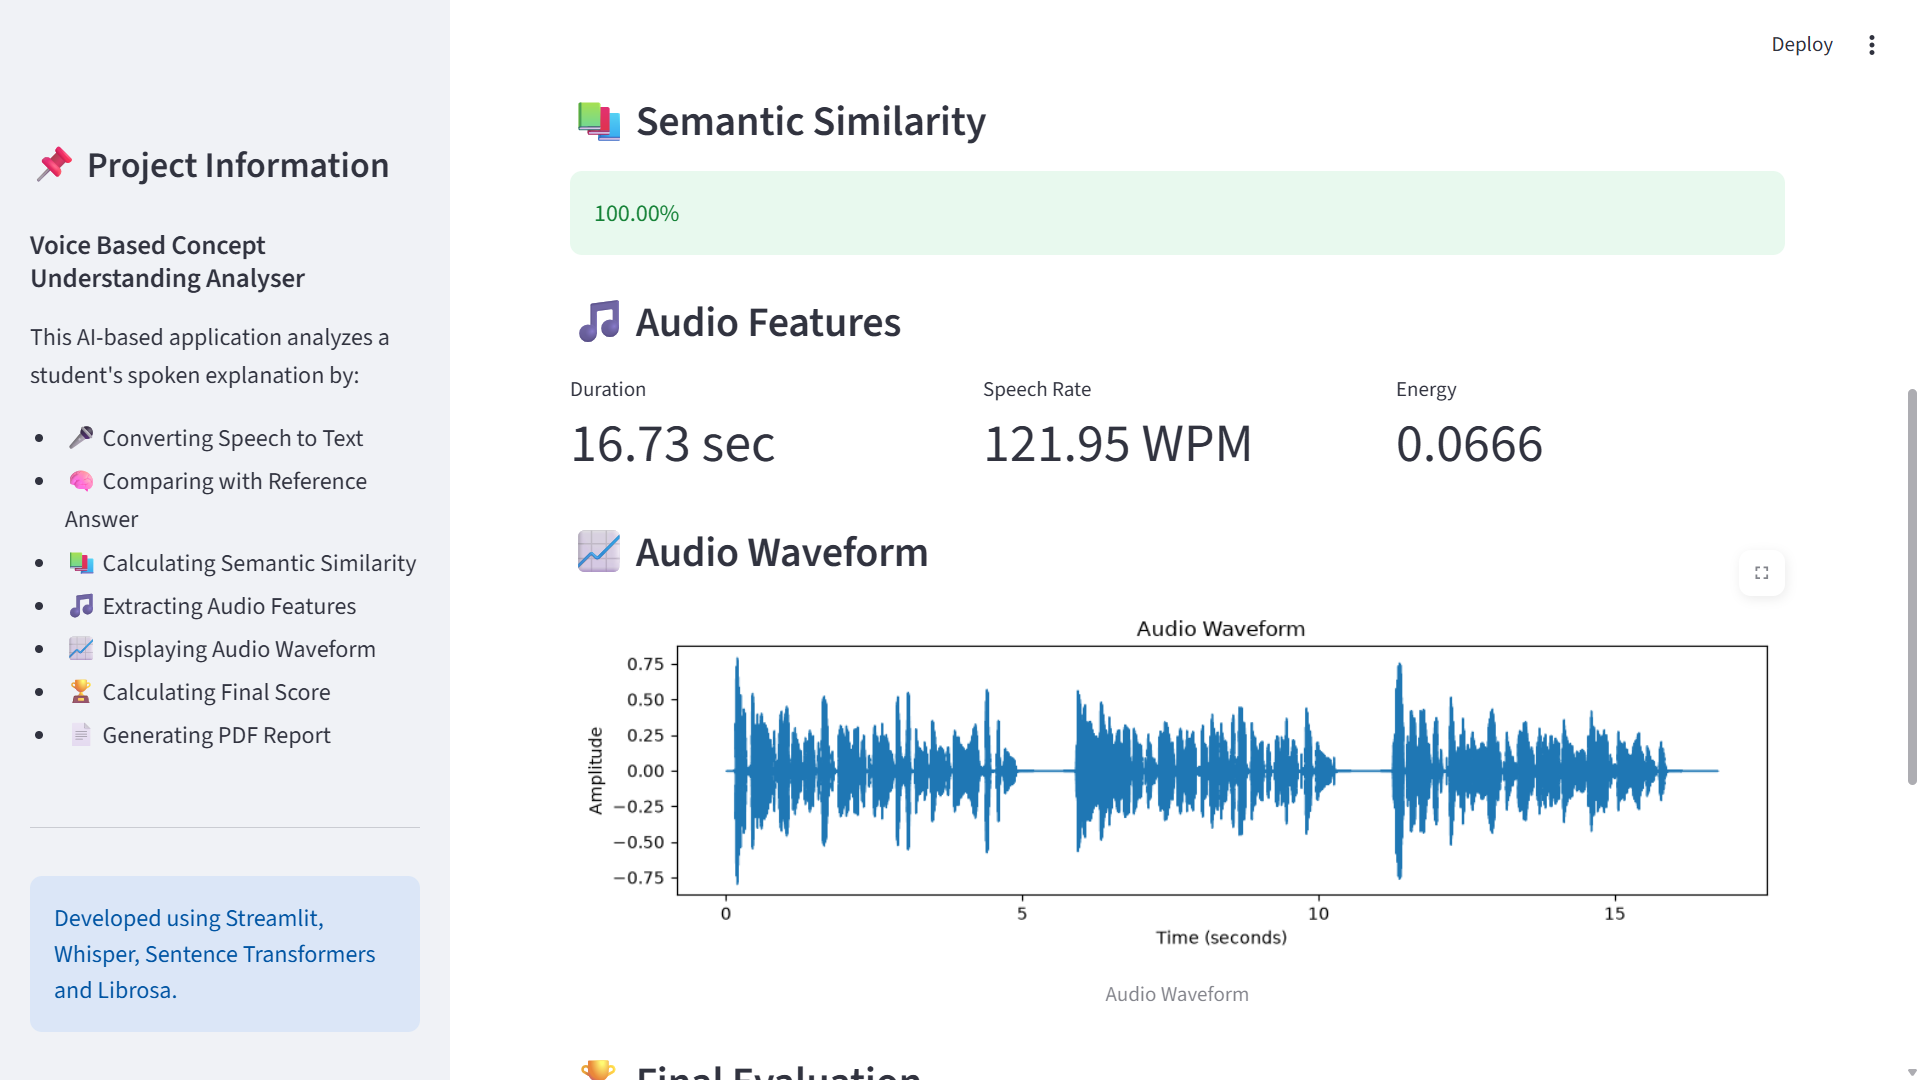
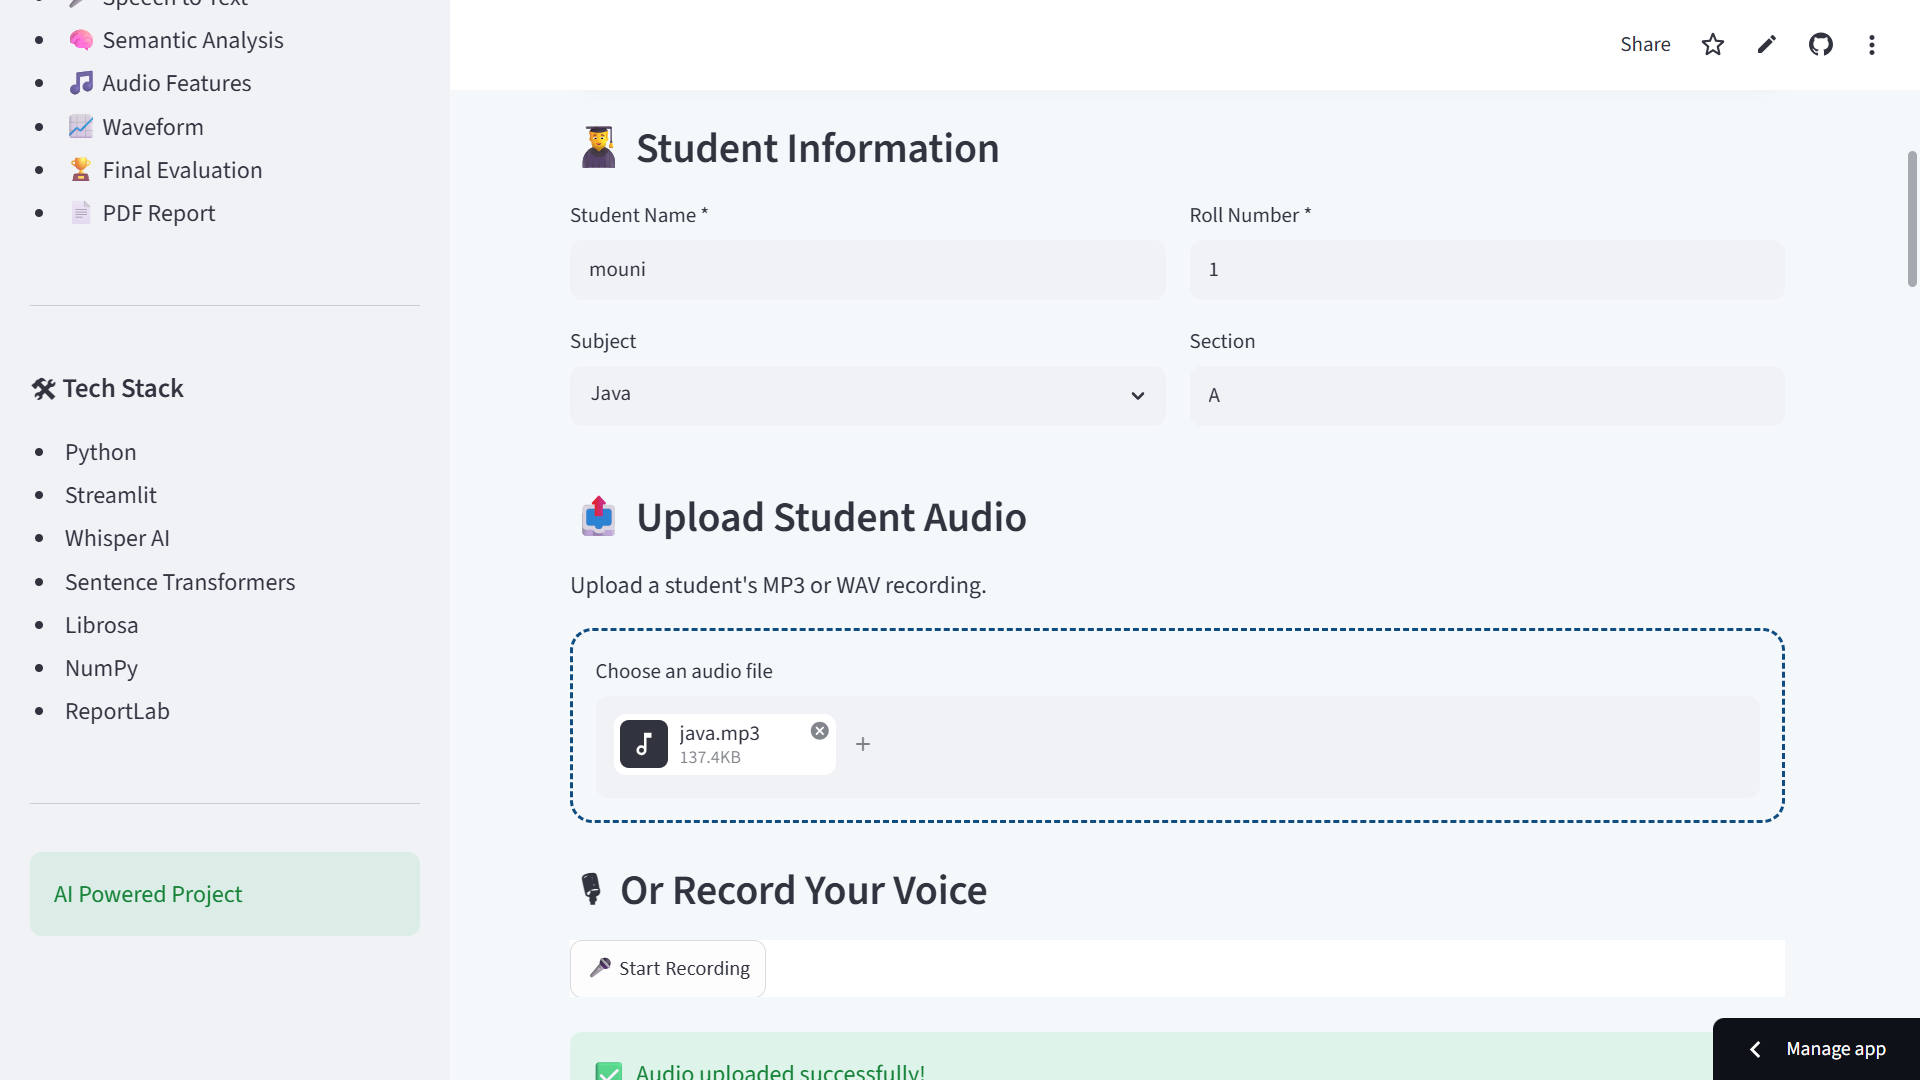
Readme Updation

diff --git a/README.md b/README.md
@@ -1,31 +1,78 @@
 # 🎤 Voice Based Concept Understanding Analyser
 
-🌐 **Live Project**
+An AI-powered web application that evaluates a student's spoken explanation of a concept using **Speech-to-Text**, **Natural Language Processing (NLP)**, and **Audio Feature Analysis**.
 
-[https://voice-based-concept-understanding-analyser-ezu898jwphrtf5goswd.streamlit.app/](url)
+---
+
+## 🚀 Project Status
+
+✅ Completed
+
+🌐 Successfully Deployed on Streamlit Cloud
+
+---
+
+## 🌐 Live Demo
+
+🔗 **Streamlit App:**  
+https://voice-based-concept-understanding-analyser-5h8yakbhdlpv4tu2hb5.streamlit.app/
+
+---
+
+## 💻 GitHub Repository
+
+🔗 **GitHub:**  
+https://github.com/Swethamadda0710/Voice-Based-Concept-Understanding-Analyser
+
+---
 
 ## 📖 Project Description
 
-The **Voice Based Concept Understanding Analyser** is an AI-powered application that evaluates a student's spoken explanation of a concept. It converts speech into text, compares it with a reference answer using semantic similarity, analyzes audio features, calculates an understanding score, and generates a PDF report.
+The **Voice Based Concept Understanding Analyser** helps evaluate a student's conceptual understanding by analyzing their spoken explanation.
+
+The application performs the following tasks:
+
+- Converts speech into text using **OpenAI Whisper**
+- Compares the student's answer with the teacher's reference answer using **Sentence Transformers**
+- Extracts important audio features
+- Calculates an overall understanding score
+- Generates a professional PDF report
+- Displays evaluation history and dashboard analytics
 
 ---
 
-## ✨ Features
+## 🎯 Objectives
 
-- 🎤 Speech-to-Text using OpenAI Whisper
-- 🧠 Semantic Similarity using Sentence Transformers
+- Evaluate students' spoken explanations using AI.
+- Convert speech into text accurately.
+- Compare student answers with a reference answer.
+- Calculate semantic similarity.
+- Extract speech-related audio features.
+- Generate an AI-based evaluation score.
+- Produce downloadable PDF reports.
+- Maintain evaluation history and analytics.
+
+---
+
+# ✨ Features
+
+- 🎤 Speech-to-Text (OpenAI Whisper)
+- 🧠 Semantic Similarity Analysis
 - 🎵 Audio Feature Extraction
   - Duration
   - Speech Rate
-  - Audio Energy
+  - Energy
 - 📈 Audio Waveform Visualization
-- 🏆 Automatic Understanding Score
+- 🏆 AI-based Evaluation Score
 - 📄 PDF Report Generation
-- 🌐 Interactive Streamlit Web Interface
+- 📊 Evaluation History
+- 📈 Dashboard Analytics
+- 🎙 Voice Recording Support
+- 🌐 Interactive Streamlit Web Application
 
 ---
 
-## 🛠 Technologies Used
+# 🛠 Technologies Used
 
 - Python
 - Streamlit
@@ -34,18 +81,21 @@ The **Voice Based Concept Understanding Analyser** is an AI-powered application 
 - PyTorch
 - Librosa
 - NumPy
+- Pandas
+- Plotly
 - Matplotlib
 - ReportLab
 
 ---
 
-## 📂 Project Structure
+# 📂 Project Structure
 
-```
+```text
 Voice-Based-Concept-Understanding-Analyser/
 │
 ├── app.py
 ├── requirements.txt
+├── packages.txt
 ├── README.md
 ├── .gitignore
 │
@@ -54,35 +104,35 @@ Voice-Based-Concept-Understanding-Analyser/
 │   ├── semantic_analysis.py
 │   ├── audio_features.py
 │   ├── scoring.py
-│   └── pdf_report.py
-│
-├── tests/
-│   ├── test_whisper.py
-│   ├── test_semantic.py
-│   ├── test_audio_features.py
-│   └── test_scoring.py
-│
-├── audio/
+│   ├── pdf_report.py
+│   ├── history.py
+│   └── dashboard.py
 │
 ├── assets/
+│   └── screenshots/
 │
-└── reports/
+├── audio/
+├── reports/
+├── data/
+│   └── results.csv
+│
+└── tests/
 ```
 
 ---
 
-## ⚙ Installation
+# ⚙ Installation
 
-### 1. Clone the Repository
+## 1⃣ Clone the Repository
 
 ```bash
-git https://github.com/Swethamadda0710/Voice-Based-Concept-Understanding-Analyser.git
+git clone https://github.com/Swethamadda0710/Voice-Based-Concept-Understanding-Analyser.git
 cd Voice-Based-Concept-Understanding-Analyser
 ```
 
 ---
 
-### 2. Create Virtual Environment
+## 2⃣ Create Virtual Environment
 
 ```bash
 python -m venv .venv
@@ -90,15 +140,9 @@ python -m venv .venv
 
 ---
 
-### 3. Activate Virtual Environment
+## 3⃣ Activate Virtual Environment
 
-Windows PowerShell
-
-```bash
-.venv\Scripts\Activate.ps1
-```
-
-Windows CMD
+### Windows
 
 ```bash
 .venv\Scripts\activate
@@ -106,7 +150,7 @@ Windows CMD
 
 ---
 
-### 4. Install Required Packages
+## 4⃣ Install Dependencies
 
 ```bash
 pip install -r requirements.txt
@@ -114,57 +158,110 @@ pip install -r requirements.txt
 
 ---
 
-### 5. Install FFmpeg
-
-Download FFmpeg and add it to your system PATH.
-
-Verify installation:
-
-```bash
-ffmpeg -version
-```
-
----
-
-### 6. Run the Project
+## 5⃣ Run the Project
 
 ```bash
 streamlit run app.py
 ```
 
-The application will open in your browser.
+The application will automatically open in your browser.
 
 ---
 
-## 📄 Generated Report
+# 📄 Generated Report
 
-The application generates a PDF report containing:
+The application generates a detailed PDF report containing:
 
+- Student Details
 - Transcript
 - Semantic Similarity
 - Audio Features
-- Final Score
+- Final Evaluation Score
 - Feedback
 
-Reports are stored inside the **reports/** folder.
+Reports are automatically saved inside the **reports/** folder.
 
 ---
 
-## 📸 Sample Output
+# 📸 Sample Output
 
+## Home Page
 
+![Home Page](assets/screenshots/image.png)
 
 ---
 
-## 👩💻 Team Members
+## Student Info & Audio Upload 
 
-- Swetha Madda
-- Pechetti Harshini
-- Yogeswari Vasantala
-- Shiva Shankar Yellaboyina
-- Syed Mohammad Saad
+![Student Info & Audio Upload](assets/screenshots/image-1.png)
+
 ---
 
-## 📜 License
+## Analysis Results
+
+![Analysis Result 1](assets/screenshots/image-2.png)
+
+![Analysis Result 2](assets/screenshots/image-3.png)
+
+---
+
+## Final Evaluation 
+
+![Final Evaluation 1](assets/screenshots/image-5.png)
+
+![Final Evaluation 2](assets/screenshots/image-6.png)
+
+![Final Evaluation 3](assets/screenshots/image-7.png)
+
+![Final Evaluation 4](assets/screenshots/image-8.png)
+
+---
+
+## PDF Report
+
+![PDF Report](assets/screenshots/image-9.png)
+
+---
+
+# 🚀 Future Enhancements
+
+- Real-time Speech Streaming
+- Multi-language Support
+- Teacher Login Portal
+- Student Login Portal
+- Cloud Database Integration
+- AI Feedback Suggestions
+- Performance Analytics
+
+---
+
+# 👩💻 Team Members
+
+- **Swetha Madda**
+- **Yogeswari Vasantala**
+- **Shiva Shankar Yellaboyina**
+- **Syed Mohammad Saad**
+
+---
+
+# 📚 References
+
+- Python – https://www.python.org/
+- Streamlit – https://streamlit.io/
+- OpenAI Whisper – https://github.com/openai/whisper
+- Sentence Transformers – https://www.sbert.net/
+- Librosa – https://librosa.org/
+- PyTorch – https://pytorch.org/
+- ReportLab – https://www.reportlab.com/
+
+---
+
+# 📜 License
 
 This project is developed for educational purposes.
+
+---
+
+# ⭐ Support
+
+If you found this project useful, consider giving it a ⭐ on GitHub.
